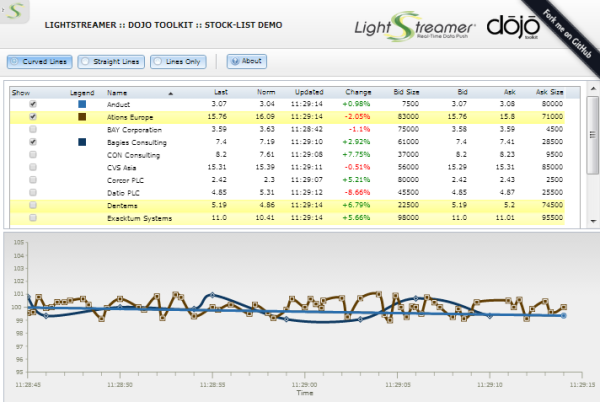
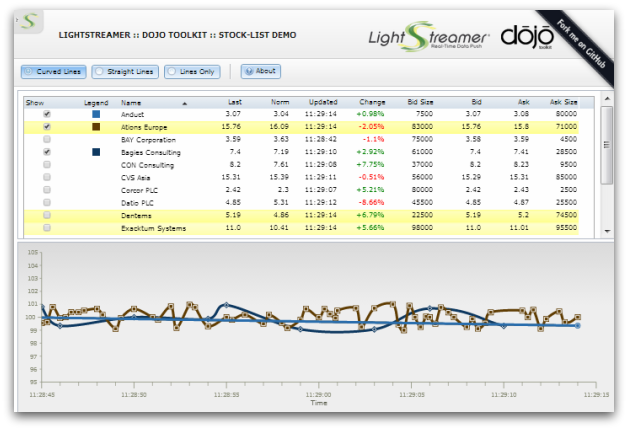
fix chart checkboxes

Changed region(s): [[0.0, 0.0, 1.0, 1.0]]

diff --git a/src/index.js b/src/index.js
@@ -308,7 +308,16 @@ require([
   
   //start sorting by stock_name
   grid.set("sort","stock_name"); 
-  
+
+  grid.on("dgrid-datachange", function(evt){  
+    // when the show checkbox is flagged/unflagged we need to update the store by saving the dirt data of the grid
+    var cell = evt.cell;
+    if ( cell.column && cell.column.id == 0 ) {
+      setTimeout(function() {
+        grid.save();
+      },0);
+    }
+  });
   
 // automatically set the show flag to true on the first three items showing up
   var INITIAL_CHARTS = 3;
@@ -360,6 +369,8 @@ require([
       if (chartSeries[updatedObject["id"]]) {
         chart.removeSeries(updatedObject["id"]);
         delete(chartSeries[updatedObject["id"]]);
+        updatedObject["legend"] = "";
+        stockStore.put(updatedObject);
       }
       
     } else {

diff --git a/README.md b/README.md
@@ -1,24 +1,27 @@
-# Lightstreamer - Stock-List Demo - HTML (Dojo Toolkit) Client #
+# Lightstreamer - Stock-List Demo - HTML (Dojo Toolkit) Client
 
 <!-- START DESCRIPTION lightstreamer-example-stocklist-client-dojo -->
 
-A simple stocklist demo application showing integration between the Dojo Toolkit and the Lightstreamer JavaScript Client library.
+A simple stocklist demo application showing integration between the <b>Dojo Toolkit</b> and the <b>Lightstreamer JavaScript Client library</b>.
 
-[![screenshot](screen_dojo_large.png)](http://demos.lightstreamer.com/DojoDemo/)
+## Live Demo
 
-An online demonstration is hosted on our servers at [http://demos.lightstreamer.com/DojoDemo](http://demos.lightstreamer.com/DojoDemo)
+[![screenshot](screen_dojo_large.png)](http://demos.lightstreamer.com/DojoDemo/)<br>
+###[![](http://demos.lightstreamer.com/site/img/play.png) View live demo](http://demos.lightstreamer.com/DojoDemo/)<br>
+
+## Details
 
 The demo shows how to use the Lightstreamer JavaScript Client library, the [lightstreamer-store](https://github.com/Weswit/dojo-lightstreamer-store), the [dgrid](https://github.com/SitePen/dgrid) component and [DojoX Charts](https://github.com/dojo/dojox) together.<br>
 
 Real-Time simulated Stock-List data is received from the Lightstreamer Server deployed @ [http://push.lightstreamer.com](http://push.lightstreamer.com)<br>
-To deploy the demo on your own environment follow the below instructions.
 
 <!-- END DESCRIPTION lightstreamer-example-stocklist-client-dojo -->
-# Deploy #
 
-Before you can run the demo some dependencies need to be solved:
+## Install
 
--  Get the lightstreamer_namespace.js file from the [latest Lightstreamer distribution](http://www.lightstreamer.com/download) and put it in the src folder of the demo. Alternatively you can build a lightstreamer_namespace.js file from the 
+If you want to install a version of this demo pointing to your local Lightstreamer Server, follow these steps:
+
+* Get the `lightstreamer_namespace.js` file from the [latest Lightstreamer distribution](http://www.lightstreamer.com/download) and put it in the `src` folder of the demo. Alternatively you can build a `lightstreamer_namespace.js` file from the 
    [online generator](http://www.lightstreamer.com/distros/Lightstreamer_Allegro-Presto-Vivace_5_1_1_Colosseo_20130305/Lightstreamer/DOCS-SDKs/sdk_client_javascript/tools/generator.html).
    In that case be sure to include the LightstreamerClient, Subscription and StatusWidget modules and to use the "AMD with namespaced names" version.
 -  Download [the Dojo Toolkit](http://download.dojotoolkit.org) and copy the dojox folder from the package to the src folder of the demo. The demo requires the Dojo Toolkit v.1.8 or higher.
@@ -28,7 +31,7 @@ Before you can run the demo some dependencies need to be solved:
         cpm install dijit
         cpm install lightstreamer-store
 
-## Dojo Build ##
+## Build
 
 It is suggested to compress the dojo/dojox/dijit files in a single js source file to minimize startup times:
 
